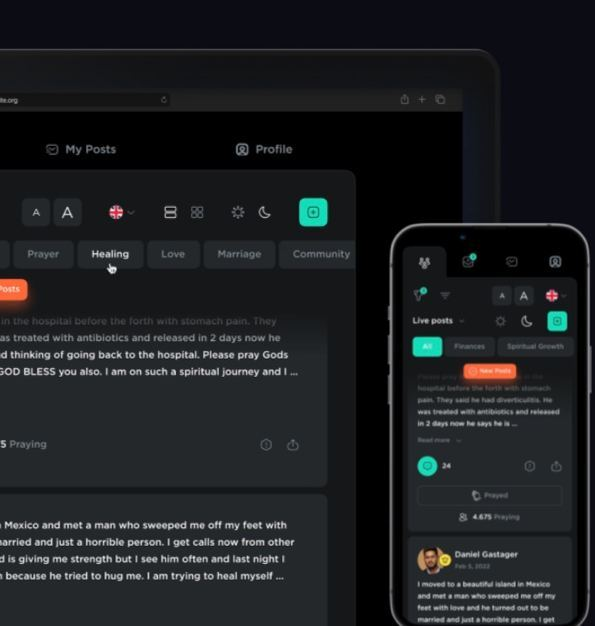
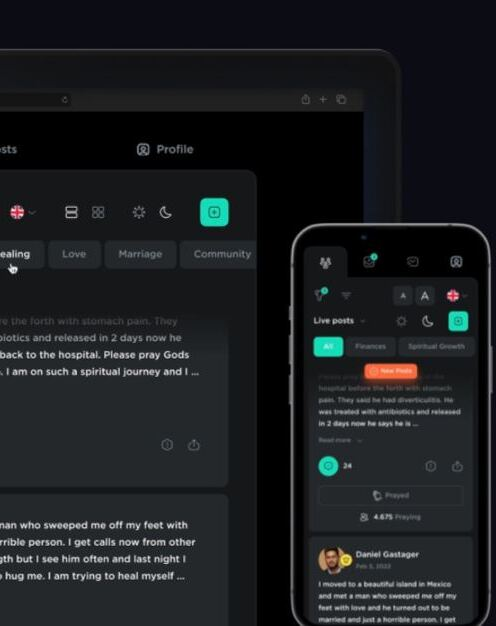
feat: add paralax project image

diff --git a/src/App.tsx b/src/App.tsx
@@ -1,6 +1,7 @@
 import { useEffect } from 'react';
 import { Provider } from 'react-redux';
 import { BrowserRouter, Routes, Route } from 'react-router-dom';
+import { ParallaxProvider } from 'react-scroll-parallax';
 import WOW from 'wowjs';
 import Footer from './components/Footer/Footer';
 import Header from './components/Header/Header';
@@ -18,14 +19,16 @@ const App = () => {
   return (
     <BrowserRouter>
       <Provider store={store}>
-        <div className="wrapper">
-          <Header />
-          <Routes>
-            <Route path="/:block?" element={<Main />} />
-            <Route path="about" element={<About />} />
-          </Routes>
-        </div>
-        <Footer />
+        <ParallaxProvider>
+          <div className="wrapper">
+            <Header />
+            <Routes>
+              <Route path="/:block?" element={<Main />} />
+              <Route path="about" element={<About />} />
+            </Routes>
+          </div>
+          <Footer />
+        </ParallaxProvider>
       </Provider>
     </BrowserRouter>
   );

diff --git a/src/containers/Projects/Project/Project.scss b/src/containers/Projects/Project/Project.scss
@@ -12,11 +12,11 @@
   &.left {
     flex-direction: row-reverse;
 
-    .project-preview__image {
+    .project-preview {
       border-radius: 24px 0 0 24px;
 
       @media screen and (max-width: 600px) {
-        border-radius: 0;
+        border-radius: 0 0 24px 24px;
       }
     }
 
@@ -78,16 +78,16 @@
 }
 
 .project-preview {
+  height: 526px;
+  overflow: hidden;
+
   flex-basis: 50%;
   @include dflex();
 
+  border-radius: 0 24px 24px 0;
+
   &__image {
-    border-radius: 0 24px 24px 0;
-
     @media screen and (max-width: 600px) {
-      position: absolute;
-      top: 0;
-
       object-fit: cover;
       border-radius: 0;
     }
@@ -127,9 +127,19 @@
     }
   }
 
+  @media screen and (max-width: 1080px) {
+    height: 426px;
+  }
+
+  @media screen and (max-width: 920px) {
+    height: 326px;
+  }
+
+  @media screen and (max-width: 740px) {
+    max-height: calc(100% - 100px);
+  }
+
   @media screen and (max-width: 600px) {
     width: 100%;
-    overflow: hidden;
-    position: relative;
   }
 }

diff --git a/src/components/Paralax/Paralax.tsx b/src/components/Paralax/Paralax.tsx
@@ -1,0 +1,24 @@
+import { ReactNode } from 'react';
+import { useMediaQuery } from 'react-responsive';
+import { Parallax } from 'react-scroll-parallax';
+
+type ParallaxWrapProps = {
+  children: ReactNode;
+  speed?: number;
+};
+
+const ParallaxWrap = ({ children, speed }: ParallaxWrapProps) => {
+  const isDesktop = useMediaQuery({ query: '(max-width: 740px)' });
+
+  return (
+    <Parallax disabled={isDesktop} speed={speed}>
+      {children}
+    </Parallax>
+  );
+};
+
+ParallaxWrap.defaultProps = {
+  speed: 5,
+};
+
+export default ParallaxWrap;

diff --git a/src/containers/Projects/Project/Project.tsx b/src/containers/Projects/Project/Project.tsx
@@ -1,3 +1,4 @@
+import ParallaxWrap from '../../../components/Paralax/Paralax';
 import Button from '../../../components/UI/Button/Button';
 import './Project.scss';
 
@@ -26,7 +27,9 @@ const Project = ({ photoAlign, title, description, linkUrl, srcImage }: ProjectP
       </div>
     </div>
     <div className="project-preview">
-      <img src={srcImage} alt={title} className="project-preview__image" />
+      <ParallaxWrap>
+        <img src={srcImage} alt={title} className="project-preview__image" />
+      </ParallaxWrap>
     </div>
   </div>
 );
